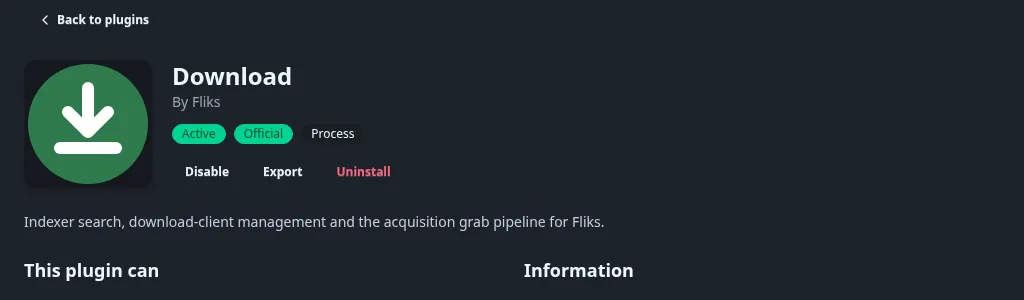
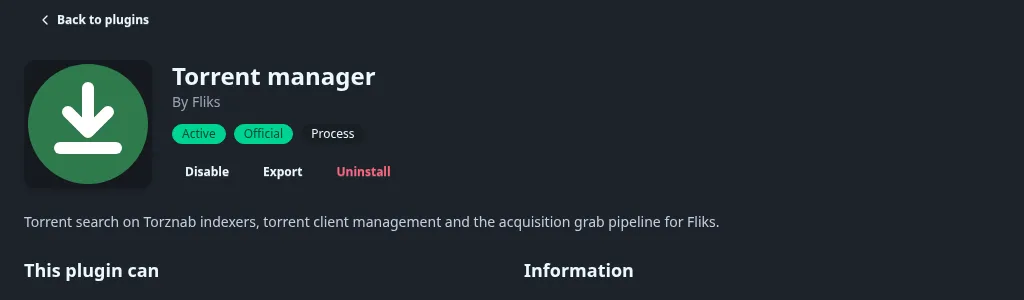
docs(downloads): re-shoot the screenshots that showed the old plugin name
The admin sidebar, plugin page, catalogue card and consent dialog now read Torrent manager.

Changed region(s): [[0.0, 0.72, 0.7188, 0.78], [0.1562, 0.21, 0.375, 0.3]]

diff --git a/src/content/07-downloads/10-plugin.md b/src/content/07-downloads/10-plugin.md
@@ -19,7 +19,7 @@ Install it from the catalogue with the admin account. Keep **Reach services on t
 
 :::steps
 ![Open **Settings > Advanced > Plugins** and click **Search for a plugin**](/img/download-install-1-plugins.webp)
-![Click **Install** on the **Download** card](/img/download-install-2-catalogue.webp)
+![Click **Install** on the **Torrent manager** card](/img/download-install-2-catalogue.webp)
 ![Read the consent list, then click **Install**](/img/download-install-3-consent.webp)
 :::
 
